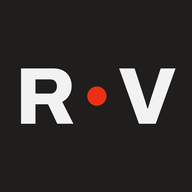
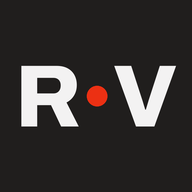
Tighten the R•V mark and tint the app window with the accent
The mark's letters grow and the gaps close: the group keeps the same margin it
had (85% of the tile against 84%) while the letters go from 29% to 32% of the
tile height and the gap either side of the dot more than halves. It reads as
one unit now rather than three things in a row, which matters most at 32px.

Measured rather than eyeballed, because eyeballing got it wrong first: a
thumbnail comparison made a much tighter setting look fine, and the rendered
file had the letters jammed against the tile border at 98% width. The generator
now reports the mark's width, height and — for the maskable variant — the
diagonal of its bounding box against the 80% safe circle, so a clipping icon
fails a number instead of surviving a squint.

theme_color moves from the icon ground to the accent, which is what tints the
installed app's title bar. The window frame is the one place the brand colour
gets to be the loudest thing on screen.

diff --git a/vite.config.ts b/vite.config.ts
@@ -60,7 +60,10 @@ export default defineConfig({
         name: 'RECTO • VERITAS',
         short_name: 'RECTO • VERITAS',
         description: 'Edit a GitHub-hosted site offline, then publish with one button.',
-        theme_color: '#201e1d',
+        // Tints the installed app's title bar. The accent, not the icon
+        // ground — the window frame is the one place the brand colour gets
+        // to be the loudest thing on screen.
+        theme_color: '#ec3013',
         background_color: '#f3f2f2',
         display: 'standalone',
         start_url: base,

diff --git a/index.html b/index.html
@@ -3,7 +3,7 @@
   <head>
     <meta charset="UTF-8" />
     <meta name="viewport" content="width=device-width, initial-scale=1.0" />
-    <meta name="theme-color" content="#201e1d" />
+    <meta name="theme-color" content="#ec3013" />
     <link rel="icon" type="image/png" href="/favicon-32.png" />
     <link rel="apple-touch-icon" href="/icon-192.png" />
     <title>RECTO • VERITAS</title>
